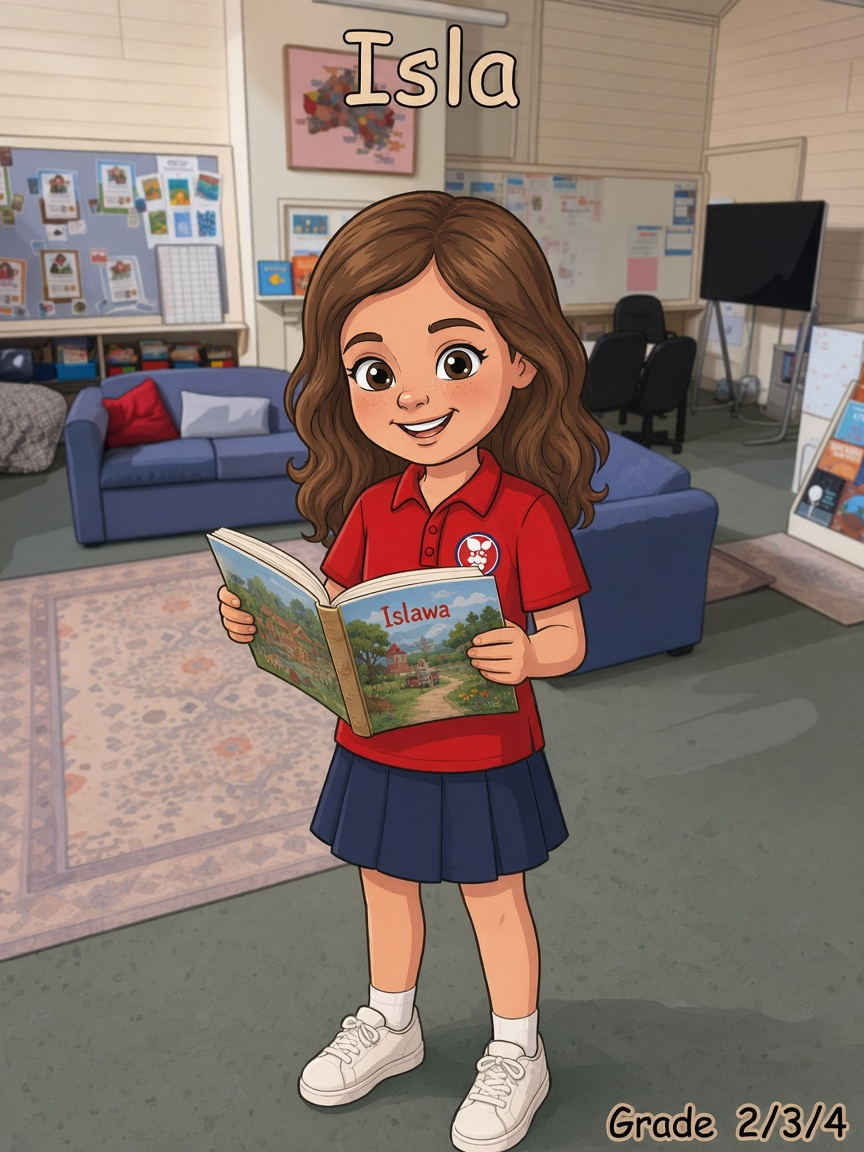
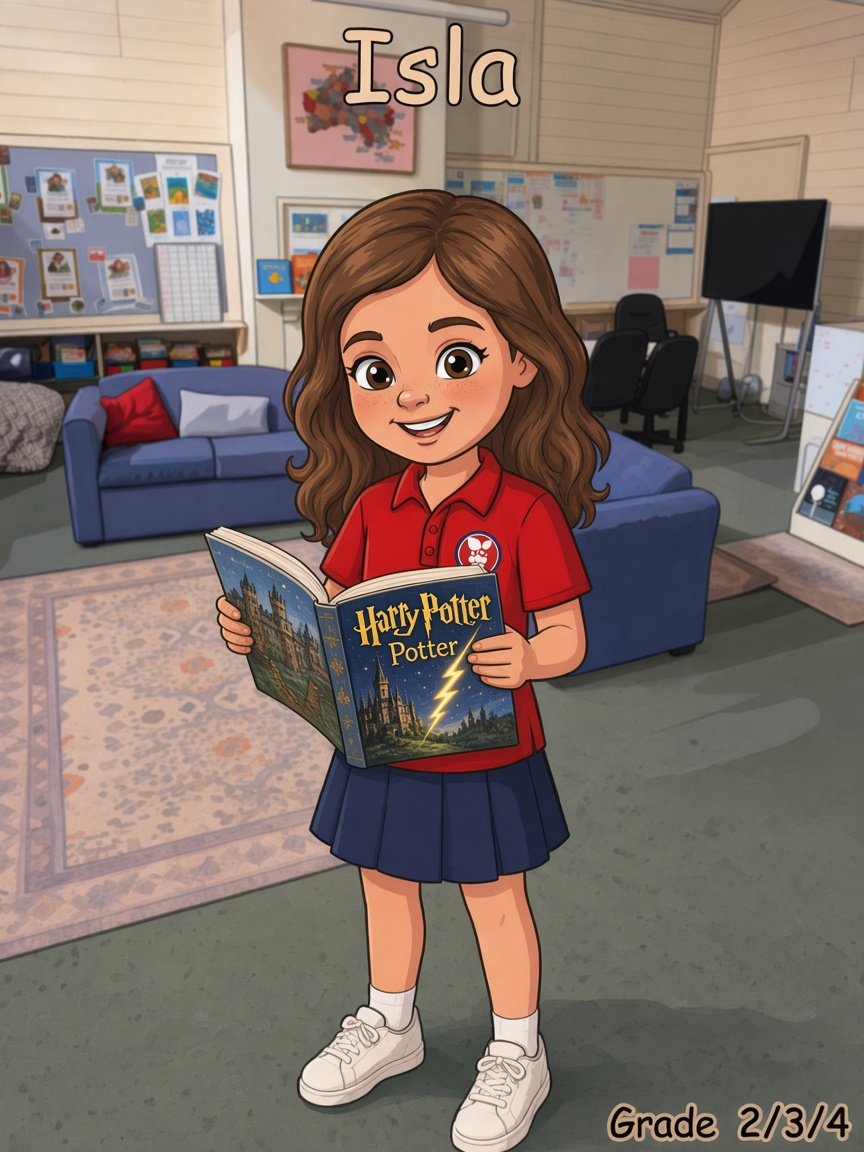
Add remaining Grade 2/3/4 student portraits and fix Isla's book.
Fifteen new Year 2/3/4 cartoons with varied Milawa campus backgrounds and poses; Isla now holds a Harry Potter book.

diff --git a/lib/students.ts b/lib/students.ts
@@ -30,11 +30,26 @@ const F1: Student[] = [
 
 /** Grade 2/3/4 portraits — cartoonified Milawa campus backgrounds from Drive. */
 const YEAR_234: Student[] = [
-  { id: "234-leo", unitId: "234", name: "Leo", image: "/students/234-leo.jpg" },
-  { id: "234-zaylee", unitId: "234", name: "Zaylee", image: "/students/234-zaylee.jpg" },
-  { id: "234-hugh", unitId: "234", name: "Hugh", image: "/students/234-hugh.jpg" },
+  { id: "234-alexis", unitId: "234", name: "Alexis", image: "/students/234-alexis.jpg" },
+  { id: "234-alison", unitId: "234", name: "Alison", image: "/students/234-alison.jpg" },
+  { id: "234-arthur", unitId: "234", name: "Arthur", image: "/students/234-arthur.jpg" },
+  { id: "234-austin", unitId: "234", name: "Austin", image: "/students/234-austin.jpg" },
+  { id: "234-bella", unitId: "234", name: "Bella", image: "/students/234-bella.jpg" },
+  { id: "234-hannah", unitId: "234", name: "Hannah", image: "/students/234-hannah.jpg" },
   { id: "234-harry", unitId: "234", name: "Harry", image: "/students/234-harry.jpg" },
+  { id: "234-hugh", unitId: "234", name: "Hugh", image: "/students/234-hugh.jpg" },
   { id: "234-isla", unitId: "234", name: "Isla", image: "/students/234-isla.jpg" },
+  { id: "234-ivy", unitId: "234", name: "Ivy", image: "/students/234-ivy.jpg" },
+  { id: "234-josh", unitId: "234", name: "Josh", image: "/students/234-josh.jpg" },
+  { id: "234-leo", unitId: "234", name: "Leo", image: "/students/234-leo.jpg" },
+  { id: "234-lucy", unitId: "234", name: "Lucy", image: "/students/234-lucy.jpg" },
+  { id: "234-mary", unitId: "234", name: "Mary", image: "/students/234-mary.jpg" },
+  { id: "234-matilda-l", unitId: "234", name: "Matilda L", image: "/students/234-matilda-l.jpg" },
+  { id: "234-matilda-m", unitId: "234", name: "Matilda M", image: "/students/234-matilda-m.jpg" },
+  { id: "234-poppy", unitId: "234", name: "Poppy", image: "/students/234-poppy.jpg" },
+  { id: "234-sean", unitId: "234", name: "Sean", image: "/students/234-sean.jpg" },
+  { id: "234-tjmara", unitId: "234", name: "Tjmara", image: "/students/234-tjmara.jpg" },
+  { id: "234-zaylee", unitId: "234", name: "Zaylee", image: "/students/234-zaylee.jpg" },
 ];
 
 const YEAR_56: Student[] = [];

diff --git a/scripts/check-highlights.ts b/scripts/check-highlights.ts
@@ -5,11 +5,15 @@ import { STUDENTS } from "../lib/students";
 import { kioskScreens, DEFAULT_SHOWN } from "../lib/reveals";
 
 assert.equal(STUDENTS.filter((student) => student.unitId === "f1").length, 17);
-assert.equal(STUDENTS.filter((student) => student.unitId === "234").length, 5);
+assert.equal(STUDENTS.filter((student) => student.unitId === "234").length, 20);
 assert.ok(STUDENTS.some((student) => student.name === "Ellie Mae"));
 assert.ok(STUDENTS.some((student) => student.id === "f1-murphy"));
 assert.ok(STUDENTS.some((student) => student.id === "234-leo"));
 assert.ok(STUDENTS.some((student) => student.id === "234-isla"));
+assert.ok(STUDENTS.some((student) => student.id === "234-austin"));
+assert.ok(STUDENTS.some((student) => student.id === "234-tjmara"));
+assert.ok(STUDENTS.some((student) => student.name === "Matilda L"));
+assert.ok(STUDENTS.some((student) => student.name === "Matilda M"));
 
 const news = sanitizeNews({
   headline: "Sports day",
